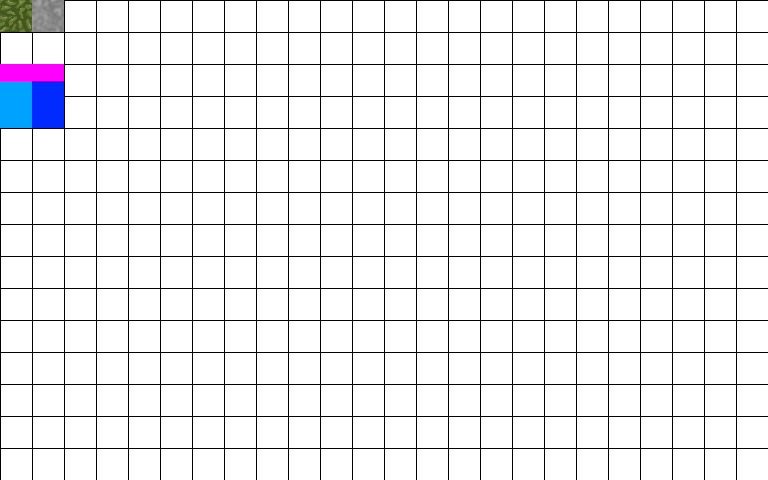
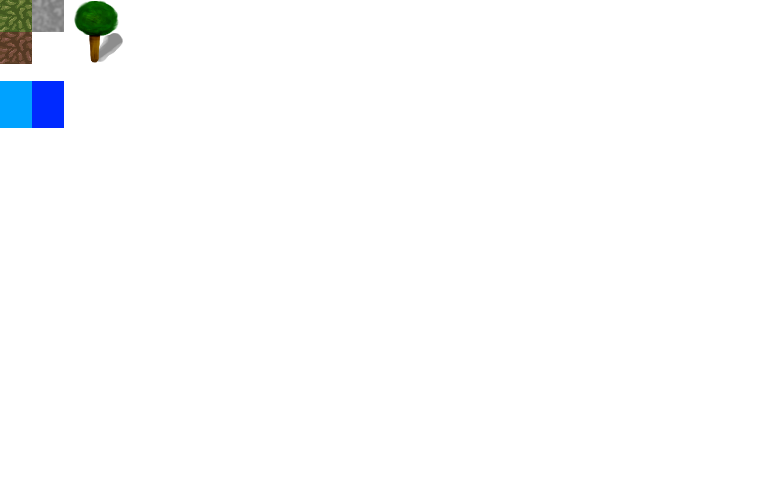
Busy with the pygame Sprite class and LayeredDirty class

diff --git a/bc/gameobjects/map.py b/bc/gameobjects/map.py
@@ -1,40 +1,31 @@
 import logging
 import pygame.surface
-from bc import graphics
-from bc.utils.alternator import Alternator
+import pygame
+from bc import graphics, sprite
 
 logger = logging.getLogger('map')
 
 class Map(object):
-    def __init__(self, width, height):
-        self.tiles = []
-        self.map = None
+    def __init__(self, size = (60, 60), tile_size = (32, 32)):
 
-        alternator = Alternator(graphics.grass, graphics.dirt)
+        self.size = size
+        self.tile_size = tile_size
 
-        for x in range(0, width):
-            self.tiles.append([])
-            for y in range(0, height):
-                tile = ((x * 32, y * 32), alternator.get())
-                self.tiles[x].append(tile)
-
-        self.view = (0, 0, width * 32, height * 32)
+        self.view = (0, 0, self.size[0] * self.tile_size[0], self.size[1] * self.tile_size[1])
 
     def move_view(self, x, y):
-        self.view = (max(min(self.view[0] + x, 200), 0), max(min(self.view[1] + y, 400), 0), self.view[2], self.view[3])
+        self.view = (max(min(self.view[0] + x, 1920), 0), max(min(self.view[1] + y, 1920), 0), self.view[2], self.view[3])
         #print self.view
 
-    def render(self, screen):
-        """
-        Renders the map to the screen
-        @param screen Surface
-        """
-        if self.map is None:
-            self.map = pygame.surface.Surface((1000,1000))
-            self.map.convert()
 
-            for rows in self.tiles:
-                for tile in rows:
-                    self.map.blit(tile[1], tile[0])
+    def load_map(self, sprite_group):
+        #self.map = pygame.sprite.LayeredUpdates()
+        for k in range(0, self.size[0] * self.size[1]):
+            spr = sprite.Sprite(graphics.grass, (400 + k % self.size[0] * self.tile_size[0],
+                                                 300 + k // self.size[1] * self.tile_size[1]))
+            sprite_group.add(spr, layer=0)
 
-        screen.blit(self.map, (0, 0), self.view)
+        tree = sprite.Sprite(graphics.tree, (400, 500))
+        sprite_group.add(tree, layer=2)
+
+        return sprite_group

diff --git a/bc/game.py b/bc/game.py
@@ -1,38 +1,42 @@
 import pygame
 import pygame.key
 import logging
+from bc import graphics
 from bc.gameobjects.map import Map
 from bc.entities.player import Player
-from bc import graphics, input
+from bc import input
 #from pgu import gui
 
 logging.basicConfig(level=logging.INFO)
 logger = logging.getLogger("main")
 
 class Game(object):
-    def __init__(self, config):
+    def __init__(self, display, config):
         self.config = config
+        self.display = display
 
         pygame.init()
 
         self.screen_size = (800, 600)
 
-        self.display = pygame.display.set_mode(self.screen_size)
-        pygame.display.set_caption(self.config['caption'])
+        self.map = Map()
+        self.player = Player(graphics.player, (384, 278), (400,300))
 
-        logger.debug("Displaymodes: %s" % pygame.display.list_modes(32))
-        logger.debug("Displayinfo: %s" % pygame.display.Info())
+        self.map.move_view(100, 100)
 
-        self.map = Map(30, 30)
-        self.player = Player(self.screen_size, graphics.player, self.map)
-
-    def init(self):
+    def run(self):
         clock = pygame.time.Clock()
         changed = True
 
         handler = input.Handler()
 
         handler.add_move_handler(self.player.move)
+
+        sprites = pygame.sprite.LayeredDirty()
+        self.map.load_map(sprites)
+        sprites.add(self.player, layer=5)
+
+        level = pygame.Surface((60*32+800, 60*32+600)).convert()
 
         while True:
             events = pygame.event.get()
@@ -42,13 +46,13 @@ class Game(object):
 
             handler.handle_input()
 
-            self.map.render(self.display)
-            self.player.tick()
+            sprites.draw(level)
 
-            self.player.render(self.display)
+            self.display.blit(level, (0,0), (self.player.position[0], self.player.position[1], 800, 600))
 
             if changed:
                 pygame.display.update()
 #                changed = False
             clock.tick(60)
+            print "FPS: %s" % clock.get_fps()
 

diff --git a/bc/entities/player.py b/bc/entities/player.py
@@ -1,22 +1,20 @@
+from bc.sprite import Sprite
 from bc.utils.alternator import Alternator
 from entity import Entity
 
-class Player(Entity):
-    def __init__(self, screen_size, sprites, game_map):
+class Player(Sprite):
+    def __init__(self, sprites, screen_position, position):
+        final_position = (screen_position[0] + position[0], screen_position[1] + position[1])
+        super(Player, self).__init__(sprites[0], final_position)
 
-        size = sprites[0].get_size()
-        position = (screen_size[0] / 2 - size[0] / 2, screen_size[1] / 2 - size[1] / 2)
-        super(Player, self).__init__(position)
+        self.screen_position = screen_position
+        self.position = position
 
-        self.sprites = Alternator(*sprites)
-        self.tick_count = 0
-        self.map = game_map
+    def move(self, d_x, d_y):
+        old_x, old_y = self.position
+        self.set_position(old_x - d_x, old_y - d_y)
 
-    def tick(self):
-        if not self.tick_count:
-            self.current_sprite = self.sprites.get()
-        self.tick_count = (self.tick_count + 1) % 30
-
-
-    def move(self, x, y):
-        self.map.move_view(-x, -y)
+    def set_position(self, x, y):
+        self.position = (x, y)
+        self.rect.left = self.screen_position[0] + x
+        self.rect.top = self.screen_position[1] + y

diff --git a/bc/utils/spriteloader.py b/bc/utils/spriteloader.py
@@ -1,19 +1,20 @@
 import pygame
 from pygame.surface import Surface
+from pygame import sprite
+from bc.sprite import Sprite
 
 class SpriteLoader(object):
     def __init__(self, path, grid_size = (32, 32)):
-        self.sprites = pygame.image.load(path)
+        self.sprites = pygame.image.load(path).convert_alpha()
         self.grid_size = grid_size
 
     def get(self, x, y, sprite_size = (1, 1)):
         sprite_width = sprite_size[0] * self.grid_size[0]
         sprite_height = sprite_size[1] * self.grid_size[1]
 
-        sprite = pygame.surface.Surface((sprite_width,sprite_height))
-        sprite.set_colorkey((255, 0, 255))
+        sprite_surface = self.sprites.subsurface(((x * self.grid_size[0], y * self.grid_size[1],
+                     sprite_width, sprite_height)))
 
-        sprite.blit(self.sprites, (0,0),
-                    (x * self.grid_size[0], y * self.grid_size[1],
-                     sprite_width, sprite_height))
-        return sprite
+        #sprite = Sprite(sprite_surface)
+
+        return sprite_surface

diff --git a/bogocraft.py b/bogocraft.py
@@ -1,13 +1,19 @@
 __author__ = 'ikke'
 
-from bc.game import Game
 import os
-
-#os.environ['SDL_VIDEO_CENTERED'] = '1'
+import pygame
 
 config = {
     'caption': "Bogocraft - V0.0.1"
 }
 
-g = Game(config)
-g.init()
+#os.environ['SDL_VIDEO_CENTERED'] = '1'
+
+pygame.init()
+display = pygame.display.set_mode((800, 600))
+pygame.display.set_caption(config['caption'])
+
+from bc.game import Game
+
+g = Game(display, config)
+g.run()

diff --git a/bc/input.py b/bc/input.py
@@ -10,9 +10,8 @@ class Handler(object):
         if mouse.get_pressed()[2]:
             pos = mouse.get_pos()
 
-            rel_pos = ((self.center[0] - pos[0]) / 50, (self.center[1] - pos[1]) / 50)
+            rel_pos = (max(min((self.center[0] - pos[0]) / 50, 4), -4), max(min((self.center[1] - pos[1]) / 50, 4), -4))
 
-            print rel_pos
             for h in self.move_handlers:
                 h(*rel_pos)
 

diff --git a/bc/sprite.py b/bc/sprite.py
@@ -1,0 +1,14 @@
+import pygame
+
+class Sprite(pygame.sprite.DirtySprite):
+    def __init__(self, image, position):
+        super(Sprite, self).__init__()
+        self.image = image
+        self.rect = pygame.Rect(0,0,0,0)
+
+        _, _, width, height = self.image.get_rect()
+        self.rect = pygame.Rect(position[0], position[1], width, height)
+
+
+
+

diff --git a/bc/graphics.py b/bc/graphics.py
@@ -3,6 +3,10 @@ from bc.utils.spriteloader import SpriteLoader
 loader = SpriteLoader('assets/tiles.png')
 
 grass = loader.get(0,0)
+forrest = loader.get(0, 1)
+
 dirt = loader.get(1, 0)
+
+tree = loader.get(2,0,(2,2))
 
 player = [loader.get(0,2, (1, 2))] #, loader.get(1, 2, (1, 2))]
